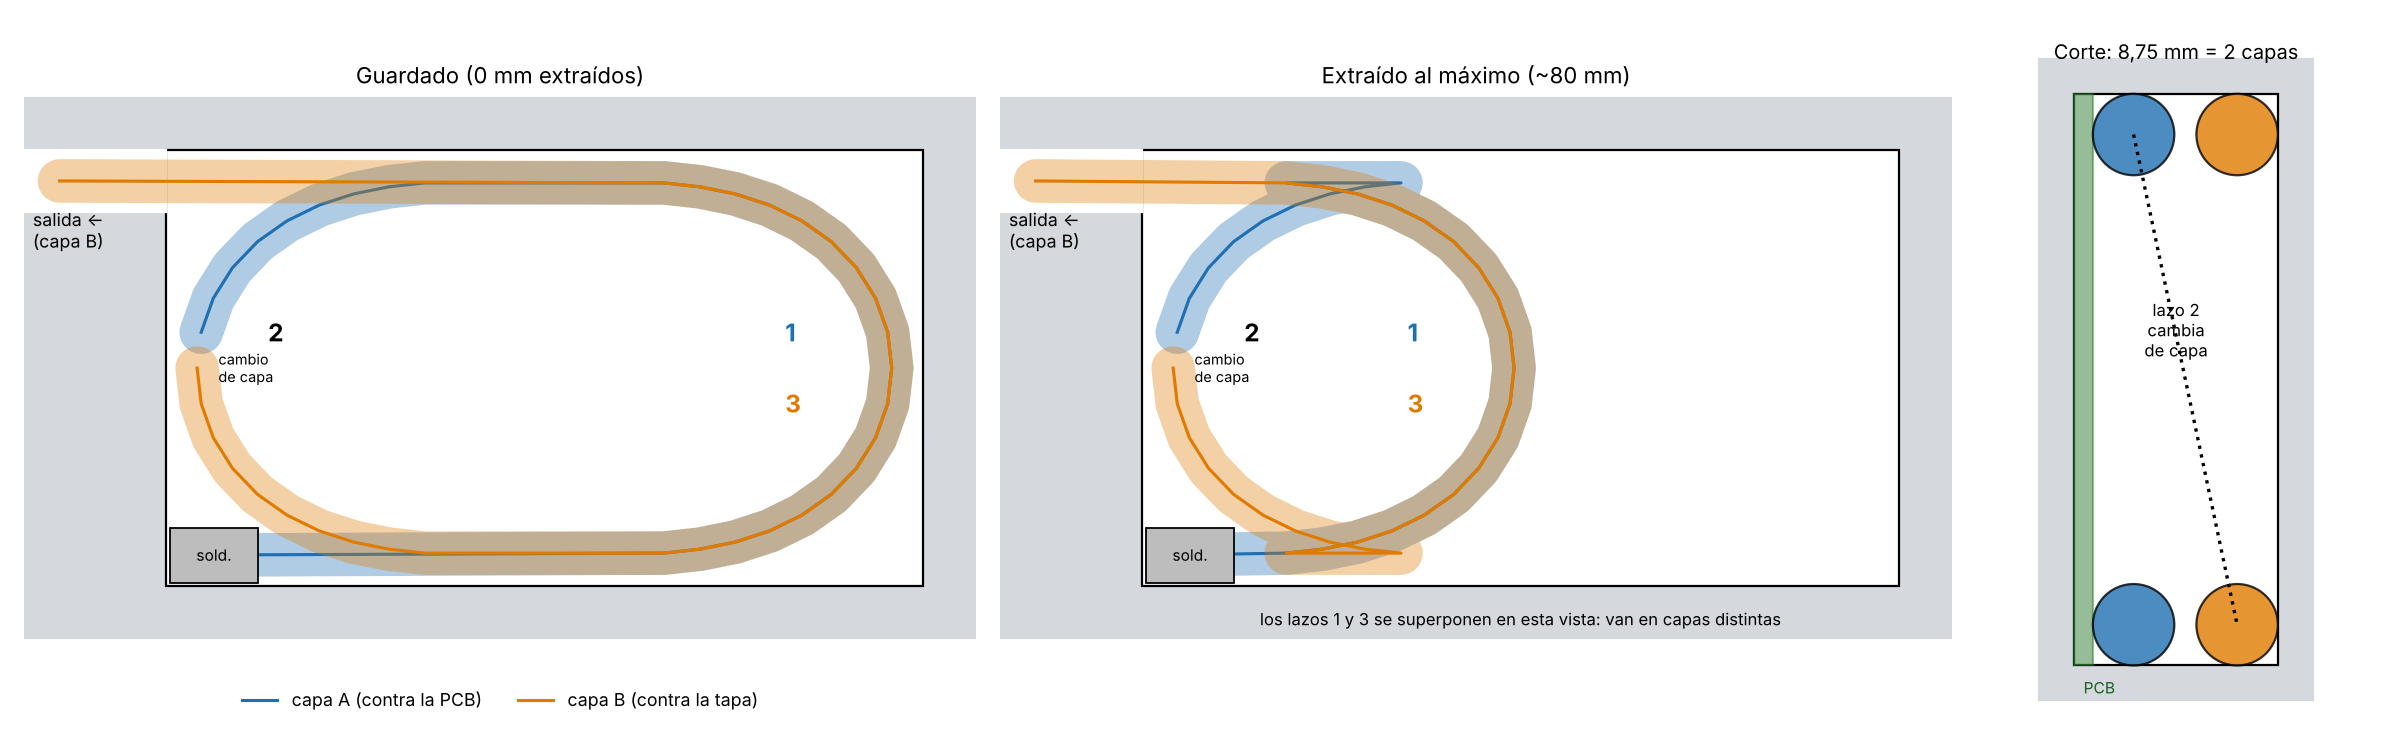
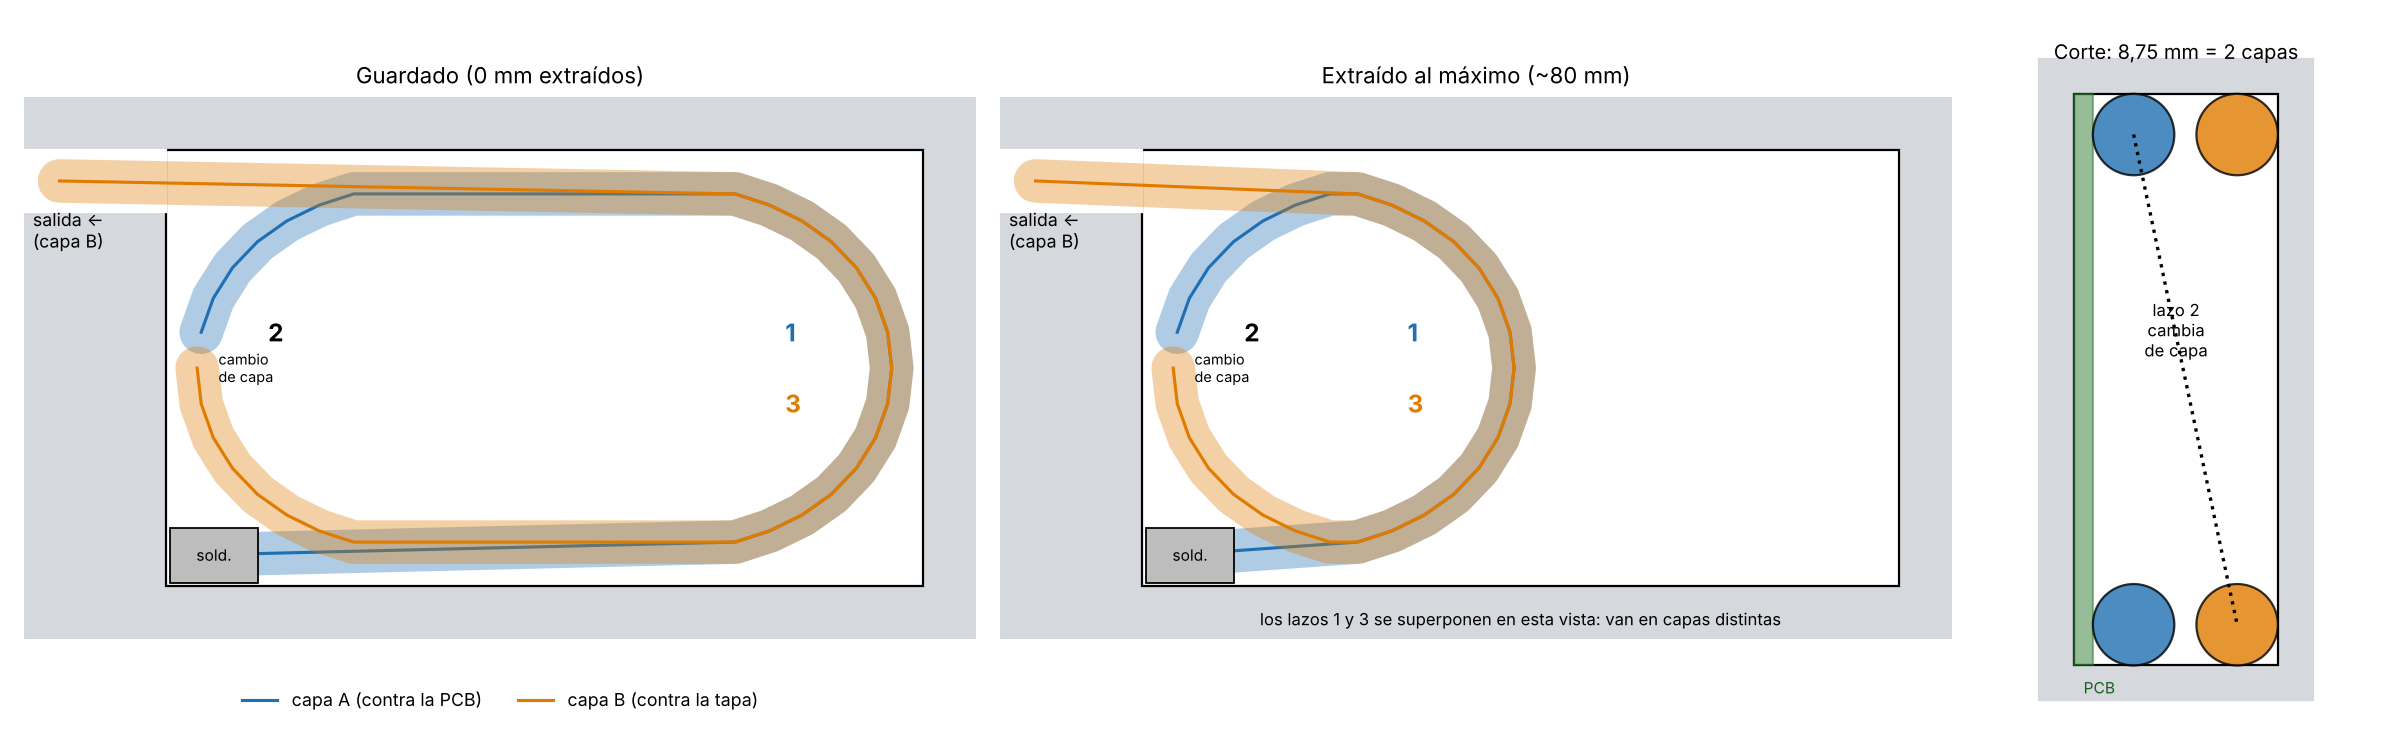
Recorrido de 0 a 82 mm del cable en Z (tira de estados y animación)
Claude-Session: https://claude.ai/code/session_01Ba77yoLNrFtJhc2u2pPnz9

diff --git a/cable_sim/carrera_z.py b/cable_sim/carrera_z.py
@@ -1,0 +1,52 @@
+"""Recorrido de la Z en dos pisos: estados de 0 a ~82 mm extraídos (cinemática con el lazo simulado)."""
+import numpy as np, matplotlib
+matplotlib.use('Agg'); import matplotlib.pyplot as plt
+from matplotlib.patches import Rectangle
+from matplotlib.animation import FuncAnimation, PillowWriter
+from rod import W, H, r, D
+import dibujo_z as dz
+
+w = 9.3                                   # punta-base de un lazo (simulación)
+EMAX = 4 * (dz.XR - (dz.XL + 2 * w))      # ~82 mm
+cA, cB = '#1f6fb2', '#e07b00'
+
+
+def dibujar(ax, e, small=False):
+    ax.clear()
+    t = dz.XR - e / 4                     # lazos 1 y 3 ruedan 1 mm cada 4 mm extraídos (2 lazos x 2)
+    A, B = dz.path(t, dz.XL, t)
+    ax.add_patch(Rectangle((-14, -3), W + 17, H + 6, color='#d5d8dc'))
+    ax.add_patch(Rectangle((0, 0), W, H, fc='w', ec='k'))
+    ax.add_patch(Rectangle((-14, H - D), 14, D, color='w'))
+    ax.add_patch(Rectangle((0.2, 0.2), 5, 3.1, fc='#bdbdbd', ec='k', lw=.8, zorder=6))
+    for P, c in ((A, cA), (B, cB)):
+        ax.plot(P[:, 0], P[:, 1], color=c, lw=D * (2.2 if small else 4.2), alpha=.4, solid_capstyle='round')
+        ax.plot(P[:, 0], P[:, 1], color=c, lw=1.3)
+    # cable afuera: marca roja cada 10 mm
+    ax.plot([-14, B[-1, 0]], [B[-1, 1]] * 2, color=cB, lw=1.3)
+    m0 = B[-1, 0] - e                    # una marca fija del cable, que sale con él
+    for k in range(0, 9):
+        xm = m0 + 10 * k
+        if xm < -14 or xm > B[-1, 0]:
+            continue
+    ax.annotate('', (-13.5, H - r), (-3, H - r), arrowprops=dict(arrowstyle='-|>', color='#c62828', lw=1.5))
+    ax.set_xlim(-14, W + 3); ax.set_ylim(-3, H + 3); ax.set_aspect('equal'); ax.axis('off')
+    ax.set_title(f'{e:.0f} mm extraídos', fontsize=10 if small else 13, color='#c62828' if e >= 70 else 'k')
+
+
+# tira de estados
+es = [0, 20, 40, 60, 70, EMAX]
+fig, axs = plt.subplots(2, 3, figsize=(15, 7.4))
+for ax, e in zip(axs.flat, es):
+    dibujar(ax, e, small=True)
+axs.flat[-1].set_title(f'{EMAX:.0f} mm extraídos (tope)', fontsize=10, color='#c62828')
+fig.suptitle('Cable en Z, dos pisos: azul = piso 1 (PCB), naranja = piso 2 (tapa). '
+             'Al tirar, los dos lazos de la derecha ruedan juntos hacia la izquierda.', fontsize=11)
+fig.tight_layout(); fig.savefig('carrera_Z.png', dpi=140)
+
+# animación
+fig2, ax2 = plt.subplots(figsize=(8, 5))
+fr = np.r_[np.linspace(0, EMAX, 40), np.full(8, EMAX), np.linspace(EMAX, 0, 40), np.zeros(8)]
+anim = FuncAnimation(fig2, lambda i: dibujar(ax2, fr[i]), frames=len(fr))
+anim.save('carrera_Z.gif', writer=PillowWriter(fps=15))
+print(EMAX)

diff --git a/cable_sim/dibujo_z.py b/cable_sim/dibujo_z.py
@@ -8,7 +8,7 @@ from rod import W, H, r, D
 d = json.load(open('rl_a.json'))
 X = np.array(min((s for s in d['extract'] if s['ok']), key=lambda s: abs(s['L'] - 61))['X'])
 tip = X[:, 0].max()
-T = X[X[:, 0] > tip - 13] - [tip, 0]           # lazo relativo a su punta (abre a la izquierda)
+T = X[X[:, 0] > tip - 9.3] - [tip, 0]          # lazo relativo a su punta (abre a la izquierda)
 WL = -T[:, 0].min()                              # largo del tramo tomado
 Y0, Y1 = r, H - r; XL = r; XR = W - r
 
